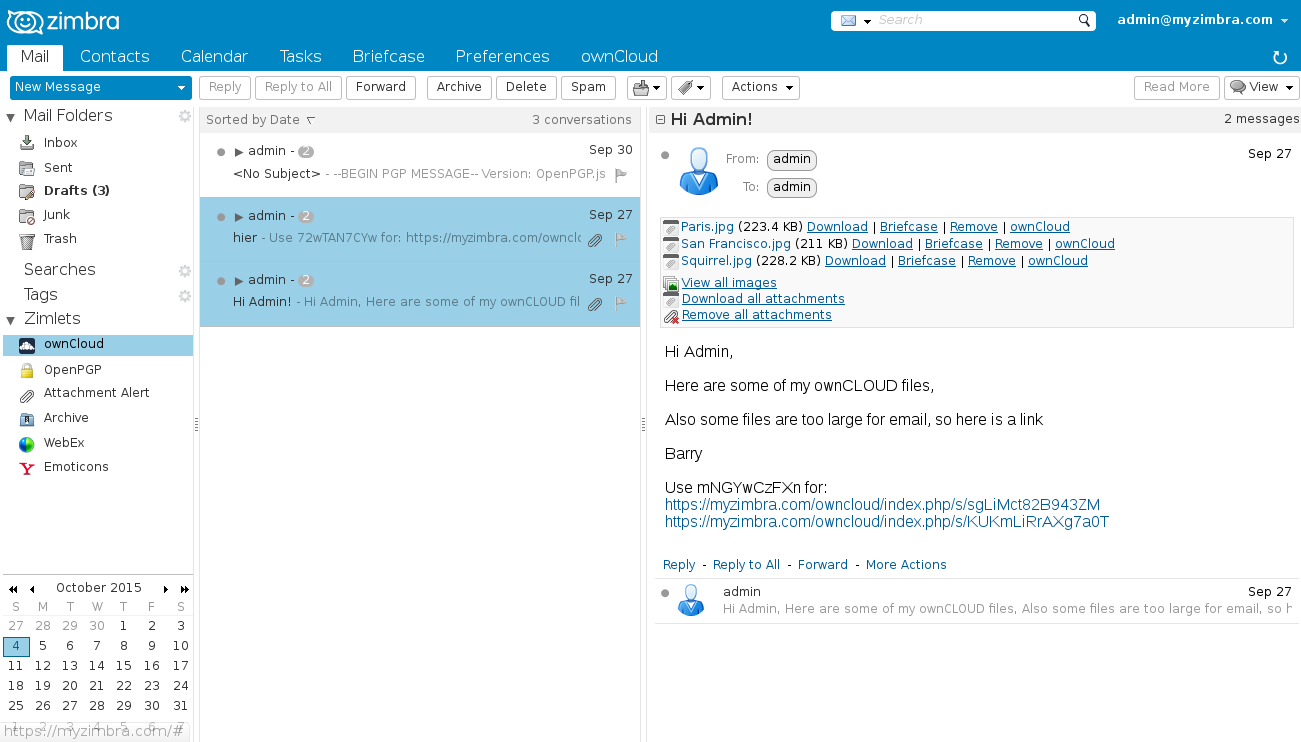
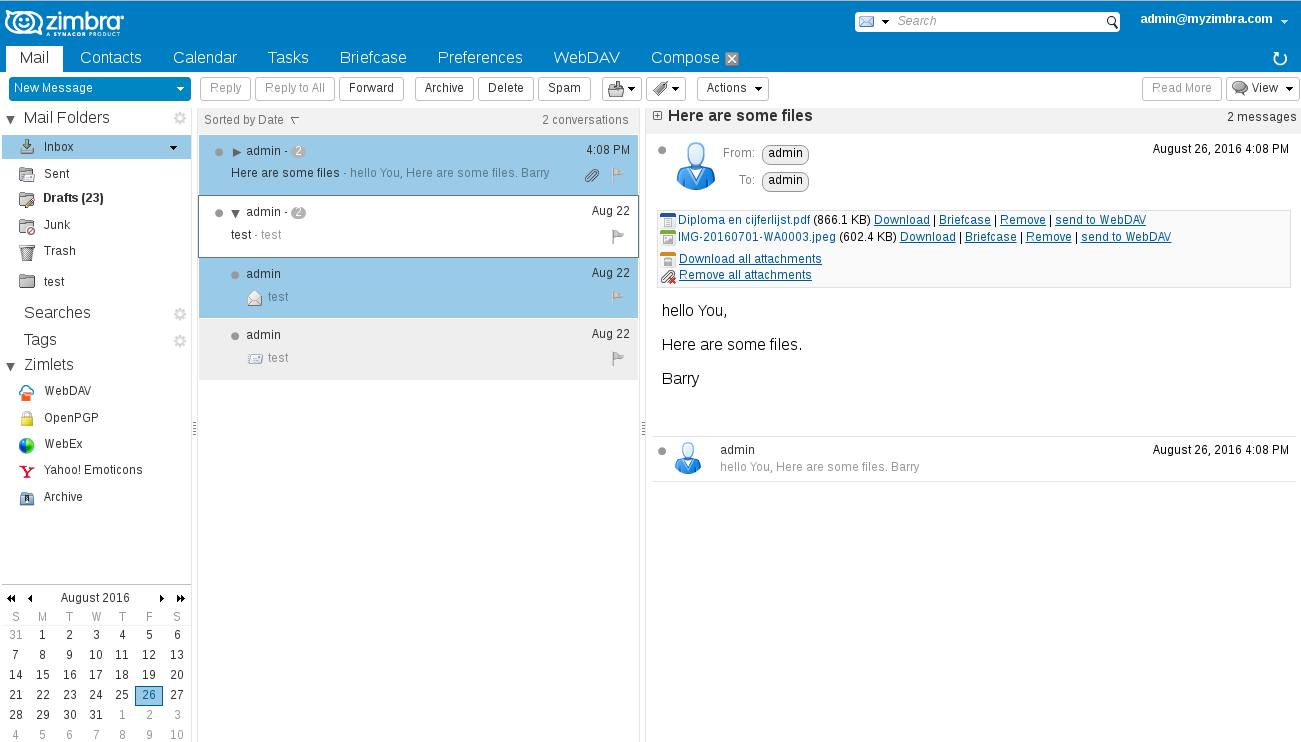
update user manual for WebDAV Client

diff --git a/zimlet/help/index.html b/zimlet/help/index.html
@@ -4,7 +4,7 @@
 <meta charset='utf-8'>
 <meta http-equiv="X-UA-Compatible" content="IE=edge">
 <link rel="shortcut icon" href="../icon.png" />
-<title>Zimbra ownCloud User Help</title>
+<title>Zimbra WebDAV User Help</title>
 
 <style type="text/css">
 h1
@@ -42,27 +42,27 @@ border: 1px solid #888888;
 
 <body style="font-family: sans-serif; font-size:14px;">    
 <div style="width:990px">
-<h1>Zimbra ownCloud Zimlet User Help</h1>
+<h1>Zimbra WebDAV Client User Help</h1>
 <h2>Contents</h2>
 <ul>
-<li><a href="#attach-from-owncloud">Sending attachments from ownCloud</a></li>
+<li><a href="#attach-from-owncloud">Sending attachments from WebDAV</a></li>
 <li><a href="#share-as-link">Sharing files with a public link</a></li>
-<li><a href="#emails-to-owncloud">Saving emails to ownCloud</a></li>
-<li><a href="#attachment-to-owncloud">Saving attachments to ownCloud</a></li>
-<li><a href="#briefcase-to-owncloud">Saving briefcase documents to ownCloud</a></li>
-<li><a href="#preferences">Configure ownCloud Zimlet</a></li>
-<li><a href="#about">About Zimbra ownCloud Zimlet</a></li>
+<li><a href="#emails-to-owncloud">Saving emails to WebDAV</a></li>
+<li><a href="#attachment-to-owncloud">Saving attachments to WebDAV</a></li>
+<li><a href="#briefcase-to-owncloud">Saving briefcase documents to WebDAV</a></li>
+<li><a href="#preferences">Configure WebDAV Client</a></li>
+<li><a href="#about">About Zimbra WebDAV Client</a></li>
 <li><a href="#licenses">License and third party FOSS libraries</a></li>
 </ul>
 <br>
 
 <br><br></section><section id="attach-from-owncloud">
-<h1>Sending attachments from ownCloud</h1>
-When composing email in Zimbra, you can attach files from ownCloud directly. Click the arrow next to <i>Attach</i>.<br>
+<h1>Sending attachments from WebDAV</h1>
+When composing email in Zimbra, you can attach files from WebDAV directly. Click the arrow next to <i>Attach</i>.<br>
 <br><img src="attach-menu.png" alt=""><br>
 <br>You can select files by checking them, also you can open folders by clicking on the blue folder icons. Click <i>Attach</i> when done.<br>
 <br><img src="attach-from-dialog.png" alt=""><br>
-<br>Attaching files may take some time, a progress round is displayed during this process. The message <i>Draft Saved</i> is displayed once your attachments are ready.<br>
+<br>Attaching files may take some time, a dialog is displayed during this process. The message <i>Draft Saved</i> is displayed once your attachments are ready.<br>
 <br><img src="attach-from-draft.png" alt=""><br>
 
 <hr><br>
@@ -74,71 +74,69 @@ Instead of sending files as attachments, you can also share file by means of a p
 <ul>
 <li>Link sharing does not work with <a target ="_blank" href="https://doc.owncloud.org/server/8.1/admin_manual/configuration_files/external_storage_configuration_gui.html">external storage</a> (Windows Shares)</li>
 <li>Link sharing may have been disabled by your administrator</li>
-<li>You can create only <a href="#link-share-exists">one public link for each file at a time</a></li>
+<li>This feature is only available if you use WebDAV Client with ownCloud and/or Nextcloud</li>
 </ul>
 
 Click the arrow next to <i>Attach</i>.<br>
 <br><img src="attach-menu.png" alt=""><br>
-<br>Select <i>Share as link</i><br>
+<br>Check the option <i>Add file as shared link</i>. You can also protect the shared link by typing a password in the <i>Optional password for shared link</i> field.<br>
 <br><img src="share-as-link-dialog.png" alt=""><br>
-<br>You can select files by checking them, also you can open folders by clicking on the blue folder icons. Click <i>Attach</i> when done.<br>
-<br><img src="share-as-link-dialog2.png" alt=""><br>
-<br>The selected files are displayed as links in the email body.<br>
+<br>You can select files by checking them, also you can open folders by clicking on the blue folder icons. Click <i>Attach</i> when done. The selected files are displayed as links in the email body.<br>
 <br><img src="share-as-link-result.png" alt=""><br>
-<section id="link-share-exists"><br>An exclamation mark appears for files that have already been shared with a public link. There can only be one public link defined for each file at a time. If you share the file again, a new link will be created, and the old link will no longer work.<br><br>  <img src="link-share-exists.png" alt=""><br></section
+</section
 <hr><br>
 
 
 <br><br></section><section id="emails-to-owncloud">
-<h1>Saving emails to ownCloud</h1>
-You can save emails including attachments to ownCloud by selecting them in your mailbox and drag and drop them on to the ownCloud panel.<br> Tip: You can select multiple emails by using the CTRL or SHIFT keys on your keyboard.<br>
+<h1>Saving emails to WebDAV</h1>
+You can save emails including attachments to WebDAV by selecting them in your mailbox and drag and drop them on to the WebDAV panel.<br> Tip: You can select multiple emails by using the CTRL or SHIFT keys on your keyboard.<br>
 <br><img src="multi-select.png" alt=""><br>
 <br><img src="drag-drop.png" alt=""><br>
-<br><img src="saving-multi-select.png" alt=""><br>
-<br>You can see the resulting files in ownCloud in the folder that is defined in your <a href="#preferences">preferences</a>. You can open EML files using an email client, for example Mozilla Thunderbird, Windows Essentials Mail or Apple Mail.<br>
+<br><img src="dodrop-saving.png" alt=""><br>
+<br>You can see the resulting files on the WebDAV server in the folder that is defined in your <a href="#preferences">preferences</a>. You can open EML files using an email client, for example Mozilla Thunderbird, Windows Essentials Mail or Apple Mail.<br>
 <br><img src="dodrop-result.png" alt=""><br>
 <hr><br>
 
 
 <br><br></section><section id="attachment-to-owncloud">
-<h1>Saving attachments to ownCloud</h1>
-You can save a single attachment by clicking on the <i>ownCloud</i> link that is displayed after each attachment in your inbox. The attachment is saved to ownCloud in the folder that is defined in your <a href="#preferences">preferences</a>.<br>
+<h1>Saving attachments to WebDAV</h1>
+You can save a single attachment by clicking on the <i>WebDAV</i> link that is displayed after each attachment in your inbox. The attachment is saved to WebDAV in the folder that is defined in your <a href="#preferences">preferences</a>.<br>
 <br><img src="save-attachment.png" alt=""><br>
 <hr><br>
 
 
 <br><br></section><section id="briefcase-to-owncloud">
-<h1>Saving briefcase documents to ownCloud</h1>
-You can save briefcase documents to ownCloud by selecting them from your briefcase and drag and drop them on to the ownCloud panel.<br> Tip: You can select multiple documents by using the CTRL or SHIFT keys on your keyboard.<br>
+<h1>Saving briefcase documents to WebDAV</h1>
+You can save briefcase documents to WebDAV by selecting them from your briefcase and drag and drop them on to the WebDAV panel.<br> Tip: You can select multiple documents by using the CTRL or SHIFT keys on your keyboard.<br>
 <br><img src="briefcase-drop.png" alt=""><br>
-<br>You can find your document in ownCloud in the folder that is defined in your <a href="#preferences">preferences</a>.<br>
+<br>You can find your document in WebDAV in the folder that is defined in your <a href="#preferences">preferences</a>.<br>
 <br><img src="briefcase-result.png" alt=""><br>
 <hr><br>
 
 
 <br><br></section><section id="preferences">
-<h1>Configure ownCloud Zimlet</h1>
-Find the ownCloud menu under <i>Zimlets</i> in your Zimbra web mail. Right click on ownCloud and select <i>Preferences</i>. <br>
+<h1>Configure WebDAV Client</h1>
+Find the WebDAV menu under <i>Zimlets</i> in your Zimbra web mail. Right click on WebDAV and select <i>Preferences</i>. <br>
 <br><img src="preferences-menu.png" alt=""><br>
 <br>
 <table>
-<tr><td>Username<sup>1</sup></td><td>Your ownCloud username, is set to your Zimbra username by default</td></tr>
-<tr><td>Password<sup>1</sup></td><td>Your ownCloud password</td></tr>
-<tr><td>Store password<sup>2</sup></td><td>If checked, the password is stored in plain text in Zimbra LDAP. If not checked you have to provide password for each session</td></tr>
-<tr><td><b>Default folder</b></td><td><b>Destination folder in ownCloud when saving emails, attachments and documents from Zimbra</b>
+<tr><td>Username</td><td>Your WebDAV username, is set to your Zimbra username by default</td></tr>
+<tr><td>Password</td><td>Your WebDAV password</td></tr>
+<tr><td>Store password<sup>1</sup></td><td>If checked, the password is stored in plain text in Zimbra LDAP. If not checked you have to provide password for each session</td></tr>
+<tr><td><b>Default folder</b></td><td><b>Destination folder in WebDAV when saving emails, attachments and documents from Zimbra</b>
 <br>The folder is automatically created when you click <i>OK</i>.</td></tr>
 </table>
 <br>
-<sup>1</sup> Your administrator may have configured <a href="https://github.com/barrydegraaff/owncloud-zimlet/blob/master/sso/Zimbra%20ownCloud%20Single-Sign-On.md">Single-Sign-On</a>, in that case you don't need to configure your username and password. <br>
-<sup>2</sup> <i>Store password</i> may have been disabled by your administrator.
+<sup>1</sup> <i>Store password</i> may have been disabled by your administrator.
 <br>
 <br><img src="preferences.png" alt=""><br>
-<br><img src="ownCloudTab.png" alt=""><br>
+The other fields should be automatically filled with correct details by your system administrator.
+<br>
 
 <br><br></section><section id="about">
-<h1>Zimbra ownCloud Zimlet</h1>If you find Zimbra ownCloud Zimlet useful and want to support its continued development, you can make donations via:
+<h1>Zimbra WebDAV Client</h1>If you find Zimbra WebDAV Client useful and want to support its continued development, you can make donations via:
 <ul>
-<li>PayPal: <a href="https://www.paypal.com/cgi-bin/webscr?cmd=_donations&amp;business=info%40barrydegraaff%2etk&amp;lc=US&amp;item_name=Zimbra ownCloud%20Zimlet&amp;no_note=0&amp;currency_code=EUR&amp;bn=PP%2dDonationsBF%3abtn_donateCC_LG%2egif%3aNonHostedGuest">info@barrydegraaff.tk</a></li>
+<li>PayPal: <a href="https://www.paypal.com/cgi-bin/webscr?cmd=_donations&amp;business=info%40barrydegraaff%2etk&amp;lc=US&amp;item_name=Zimbra WebDAV%20Client&amp;no_note=0&amp;currency_code=EUR&amp;bn=PP%2dDonationsBF%3abtn_donateCC_LG%2egif%3aNonHostedGuest">info@barrydegraaff.tk</a></li>
 <li>Bank transfer: IBAN NL55ABNA0623226413 ; BIC ABNANL2A</li>
 </ul>
 Please report <a href="https://github.com/barrydegraaff/owncloud-zimlet/issues">bugs</a>
@@ -154,7 +152,7 @@ Please report <a href="https://github.com/barrydegraaff/owncloud-zimlet/issues">
 
 <br><br></section><section id="licenses" style="width:650px">
 <h1>License and third party FOSS libraries</h1>
-Copyright (C) 2015&nbsp; Barry de Graaff 
+Copyright (C) 2015-2016 Barry de Graaff Zeta Alliance, Michele Olivo ZeXtras
 <br><br>This program is free software: you can redistribute it and/or modify
 <br> it under the terms of the GNU General Public License as published by
 <br> the Free Software Foundation, either version 3 of the License, or
@@ -167,10 +165,6 @@ Copyright (C) 2015&nbsp; Barry de Graaff
 <br> along with this program.&nbsp; If not, see <a href="http://www.gnu.org/licenses/">http://www.gnu.org/licenses/</a>.
 <br>
 <br><br>
-<b>davclient.js - Low-level JavaScript WebDAV client implementation</b><br>
-Copyright (C) Sven vogler under terms of the GNU General Public License version 2<br><br>
-
-<b>ownCloud and the ownCloud Logo are a registered trademark of ownCloud, Inc.</b><br><br>
 
 <b>com_zimbra_attachmail, com_zimbra_dnd</b>
 <br>Zimbra Collaboration Suite Zimlets - Copyright (C) 2009, 2010, 2011, 2012, 2013, 2014 Zimbra, Inc.
@@ -189,8 +183,8 @@ Copyright (C) Sven vogler under terms of the GNU General Public License version 
 <br>The Initial Developer of the Original Code is Zimbra, Inc. 
 <br>All portions of the code are Copyright (C) 2009, 2010, 2011, 2012, 2013, 2014 Zimbra, Inc. All Rights Reserved. <br><br>
 
-<b>Icons ans logo</b><br>
-Icons and logo where taken from the tango-icon-theme package and where released to the Public Domain by the Tango Desktop Project.<br>
+<b>Logo</b><br>
+Copyright (C) 2016 Jorge de la Cruz.<br>
 <br><br>
 </section>
 <br>
